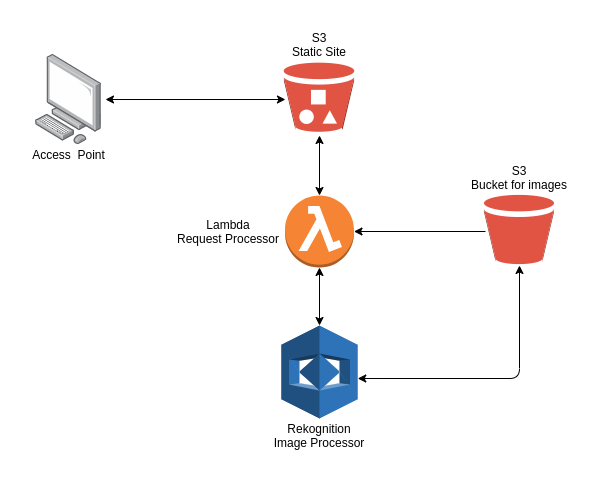
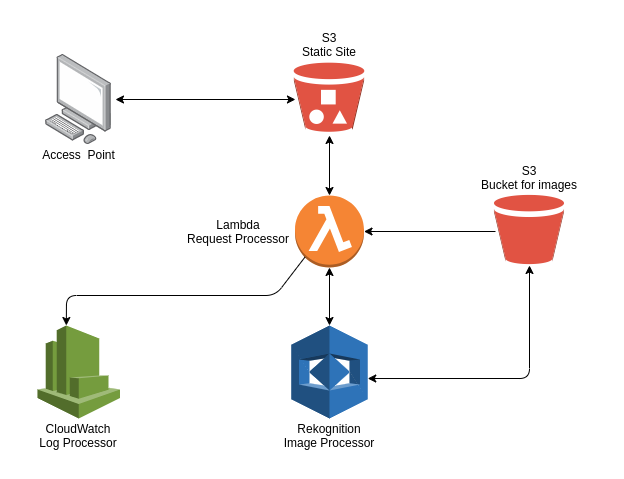
docs

diff --git a/README.md b/README.md
@@ -8,6 +8,7 @@ A projeto é constituída por 2 buckets `S3`, sendo um deles responsável por ar
 O outro bucket é responsável por armazenar o nosso banco de imagens e também por ser o `trigger` que dispara o `Lambda` que osquestra essa tarefa.
 O nosso `Lambda` é responsável por identificar todas as imagens adicionadas em nosso bucket, quando uma nova imagem com o padrão de nomenclatura `_analyze.jpg` é adicionada em nosso bucket, o `Lambda` pega essa imagem, faz o processo de reconhecimento e monta uma resposta no formato `JSON` e envia isso para o nosso bucket do site estático para que o resultado seja exibido nessa camada de frontend.
 O processo de reconhecimento facial é tratado pelo `Rekognition`, serviço responsável por indexar as imagens e realizar o reconhecimento de uma face qualquer fornecida para análise.
+Por último mas não menos importante, temos o `CloudWatch` que armazena todos os logs da execução do nosso `Lambda`.
 
 
 ### Arquitetura:
